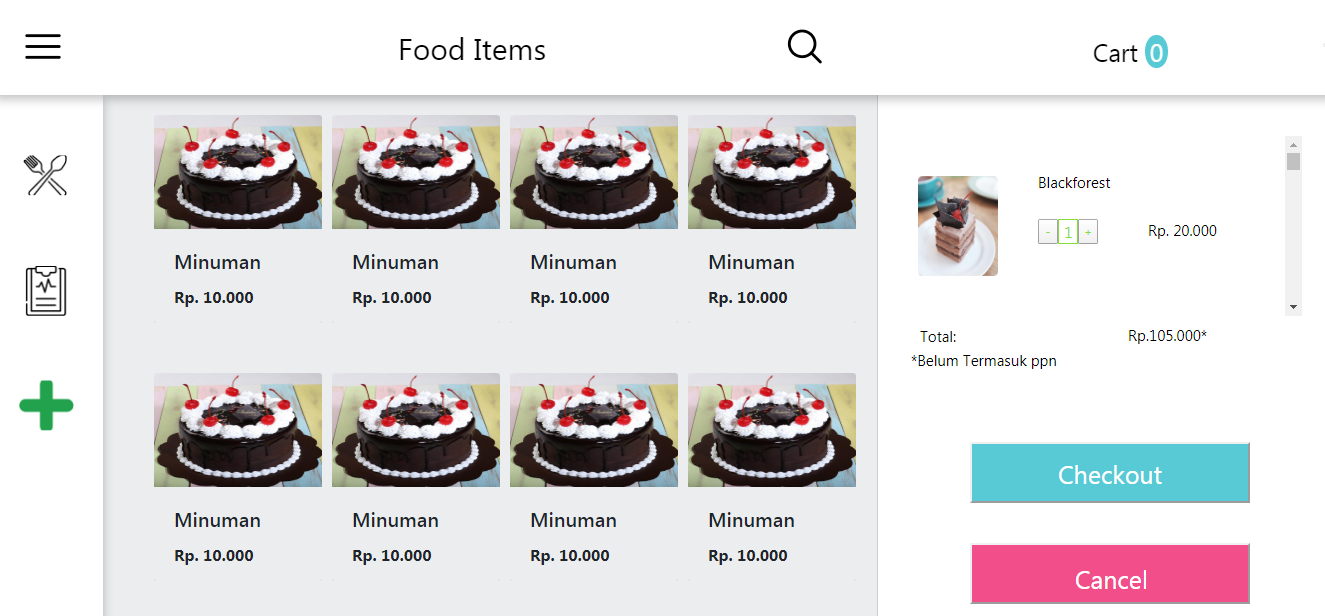
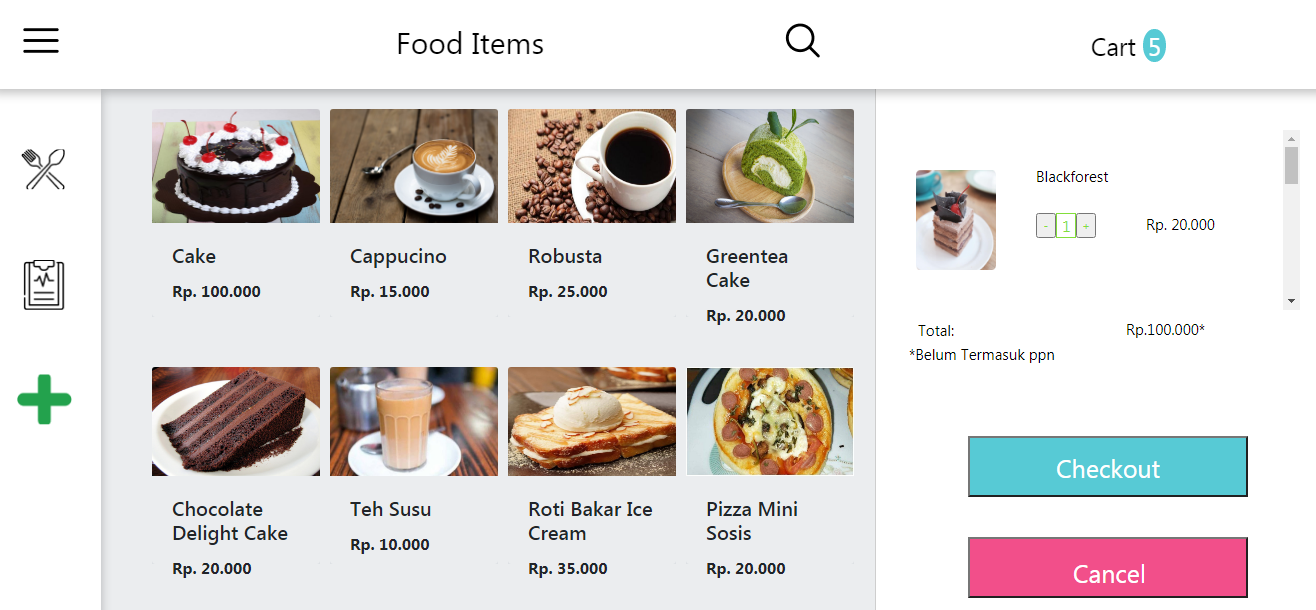
add screenshots

diff --git a/src/components/small/smallSquarePurch.vue b/src/components/small/smallSquarePurch.vue
@@ -14,15 +14,15 @@
         <br>
         <br>
         <br>
-        <div class="purch-item"> Coffee Latte 1x <span class="price-item-purch">Rp. 15.000</span></div>
+        <div class="purch-item"> Blackforest 5x <span class="price-item-purch">Rp. 100.000</span></div>
         <br>
-        <div class="purch-item1"> Coffee Latte 1x <span class="price-item-purch1">Rp. 15.000</span></div>
+        <!-- <div class="purch-item1"> Coffee Latte 1x <span class="price-item-purch1">Rp. 15.000</span></div>
         <br>
         <div class="purch-item2"> Coffee Latte 1x <span class="price-item-purch2">Rp. 15.000</span></div>
+        <br> -->
+        <div class="purch-item3"> Ppn 10% <span class="price-item-purch3">Rp. 10.000</span></div>
         <br>
-        <div class="purch-item3"> Ppn 10% <span class="price-item-purch3">Rp. 10.500</span></div>
-        <br>
-        <div class="total"> Total: <span class="total-purch">Rp. 115.500</span></div>
+        <div class="total"> Total: <span class="total-purch">Rp. 110.000</span></div>
         <br>
         <div class="payment-cash"> Payment: Cash </div>
         <br>
@@ -104,7 +104,7 @@ export default {
 
     .price-item-purch{
       position: relative;
-      right: -485px;
+      right: -492px;
     }
 
     .purch-item1{

diff --git a/src/components/small/sideBarRight.vue b/src/components/small/sideBarRight.vue
@@ -2,10 +2,10 @@
   <div>
       <div class="rightbarNew">
       <div class="indukpurch">
-        <quantityButton v-for="items in 20" :key="items.id"/></div>
+        <quantityButton v-for="items in 5" :key="items.id"/></div>
         <div class="textTPurch">
           <div class="textTotal">Total: </div>
-          <div class="hargaTotal">Rp.105.000*</div>
+          <div class="hargaTotal">Rp.100.000*</div>
           <div class="textPajak">*Belum Termasuk ppn</div>
           <smallSquarePurch/>
           <smallCancellPurch/>

diff --git a/src/views/dash.vue b/src/views/dash.vue
@@ -8,7 +8,7 @@
         <div>
           <img class="glass" src="../assets/img/magnifying-glass.png">
         </div>
-        <button><div class="cart"><p>Cart <span>0</span></p>
+        <button><div class="cart"><p>Cart <span>5</span></p>
         </div></button>
         </div>
 
